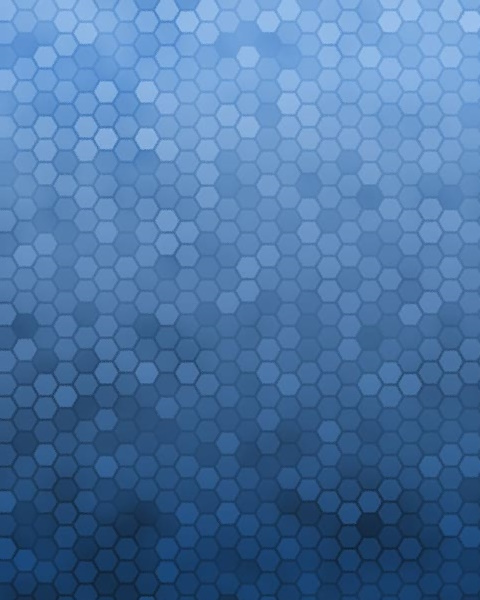
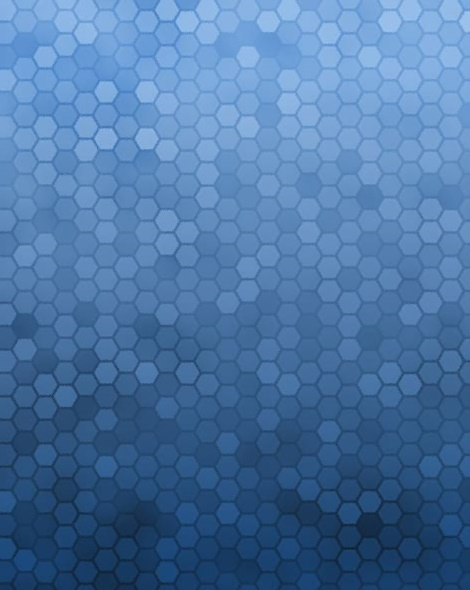
background adjust

diff --git a/main.py b/main.py
@@ -62,8 +62,8 @@ while running:
             running = False
 
     # --- INTERFACE DRAW ---
-    screen.fill("grey")
-    screen.blit(background_image, (0, UI_HEIGHT))
+    screen.fill((0, 0, 0))
+    screen.blit(background_image, (5, UI_HEIGHT + 5))
 
     pygame.draw.rect(screen, (0, 0, 0), pygame.Rect(0, 0, WIDTH, UI_HEIGHT)) # UI
 
